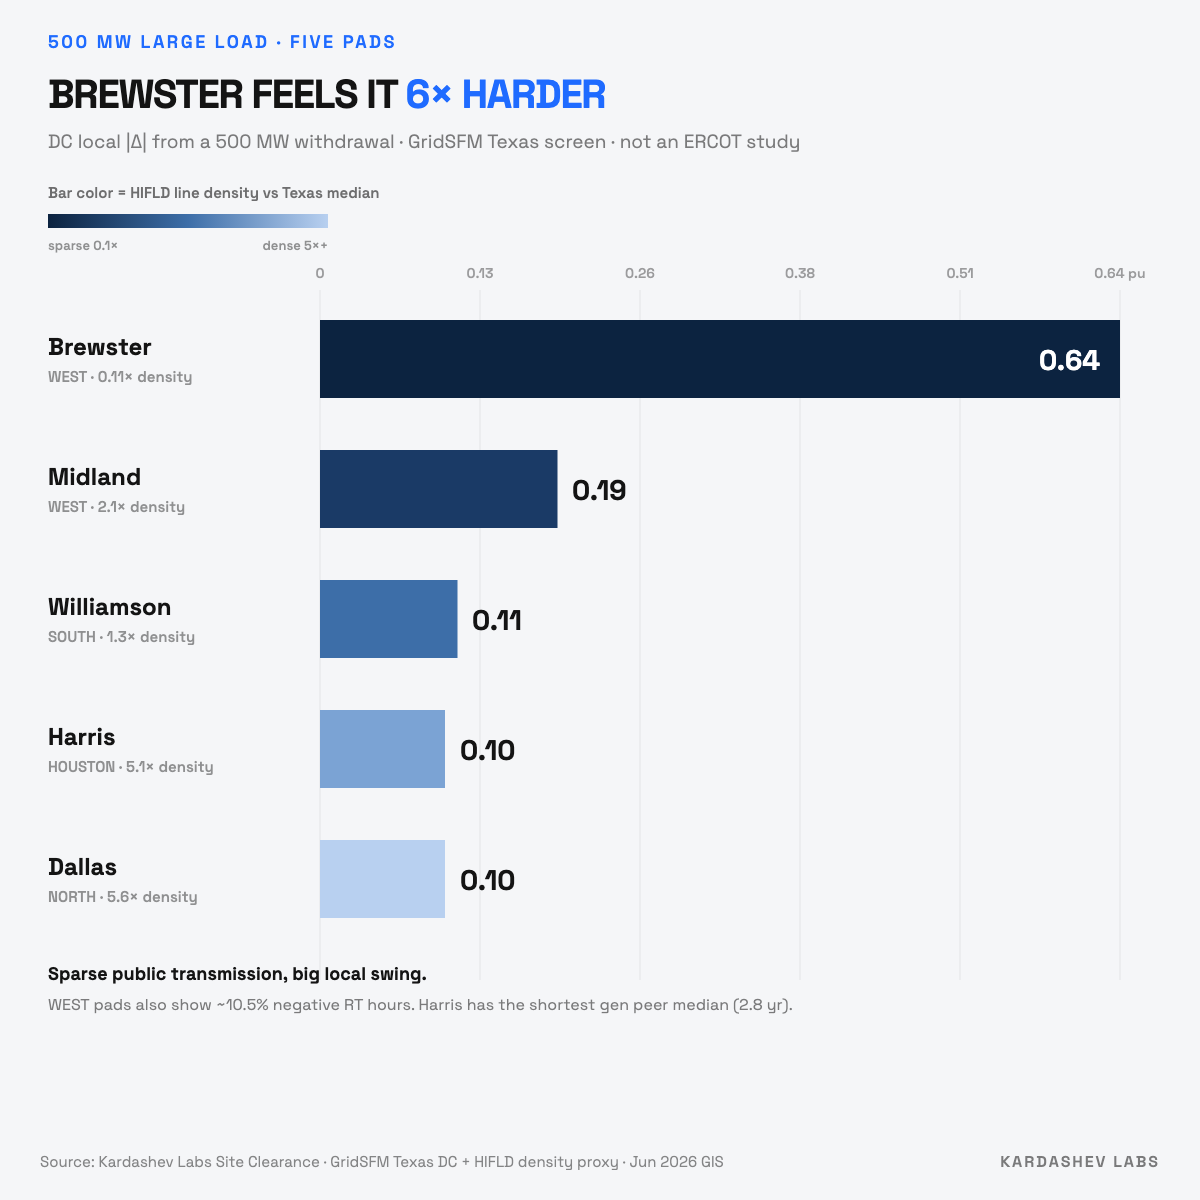
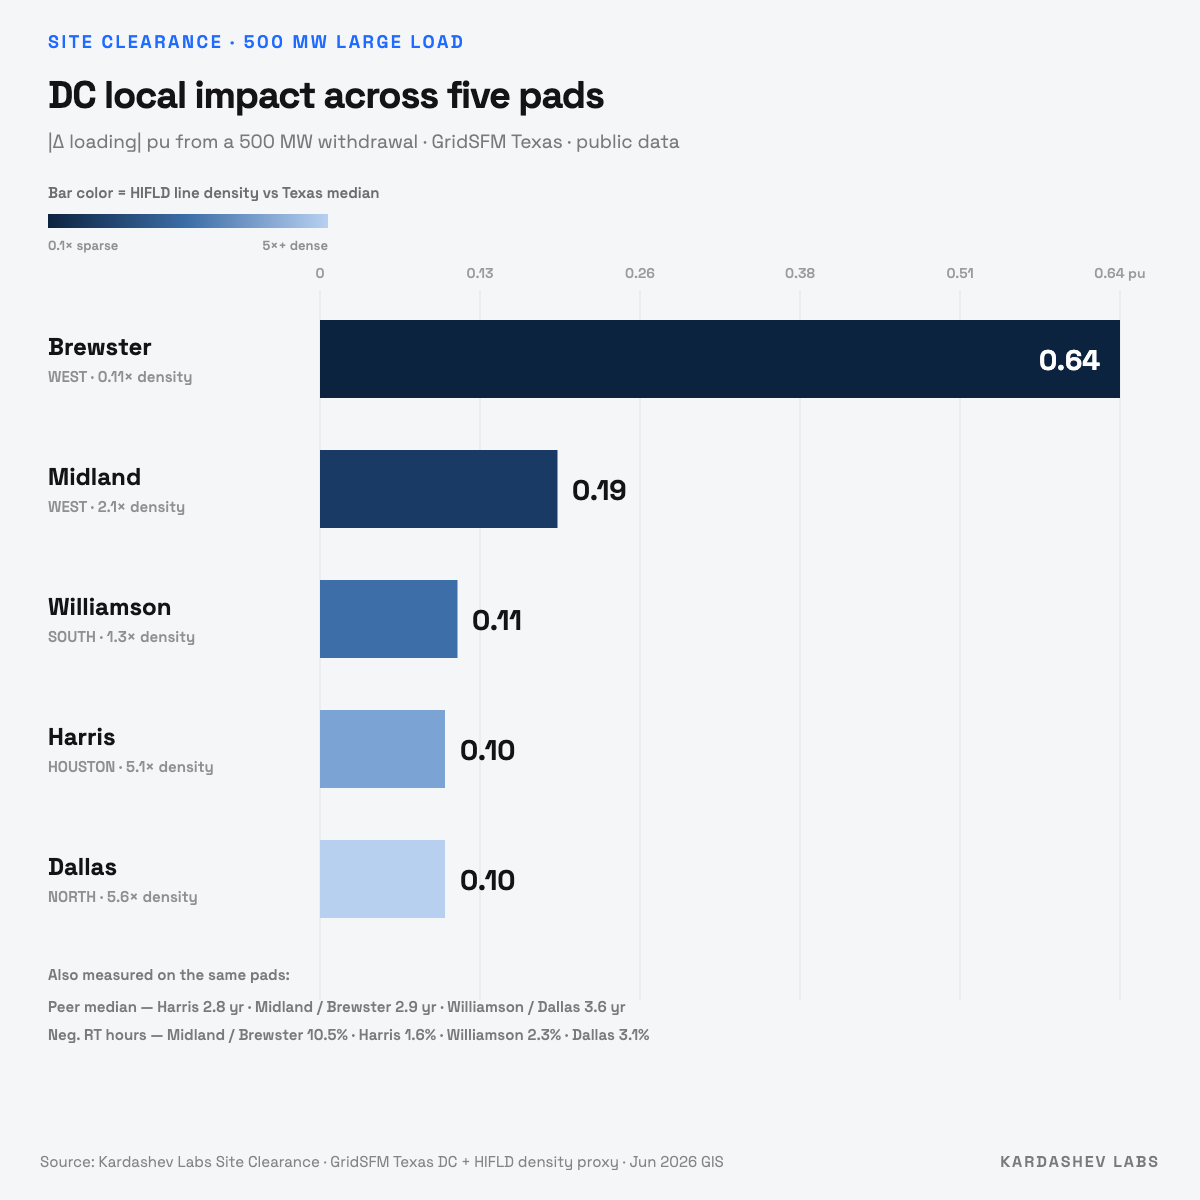
Make the 500 MW chart factual, not editorial.
Drop the opinion headline and callouts; keep ranked DC impact plus peer/market numbers.

diff --git a/content/blog/ercot-500mw-site-screen.md b/content/blog/ercot-500mw-site-screen.md
@@ -4,7 +4,7 @@ description: "Five Texas footprints run through Site Clearance at 500 MW large l
 date: "2026-08-02"
 category: "Methods"
 image: "/blog/ercot-500mw-site-screen.png"
-imageAlt: "Ranked bars of DC local impact from a 500 MW withdrawal across five Texas pads; Brewster is about 6× higher than urban pads"
+imageAlt: "Ranked bars of DC local |Δ| pu from a 500 MW withdrawal on five Texas pads, colored by HIFLD density vs Texas median"
 ---
 
 I wanted a concrete answer to a boring question: for a handful of Texas land pads, which ones look less bad on public grid data if you assume a 500 MW large load?
